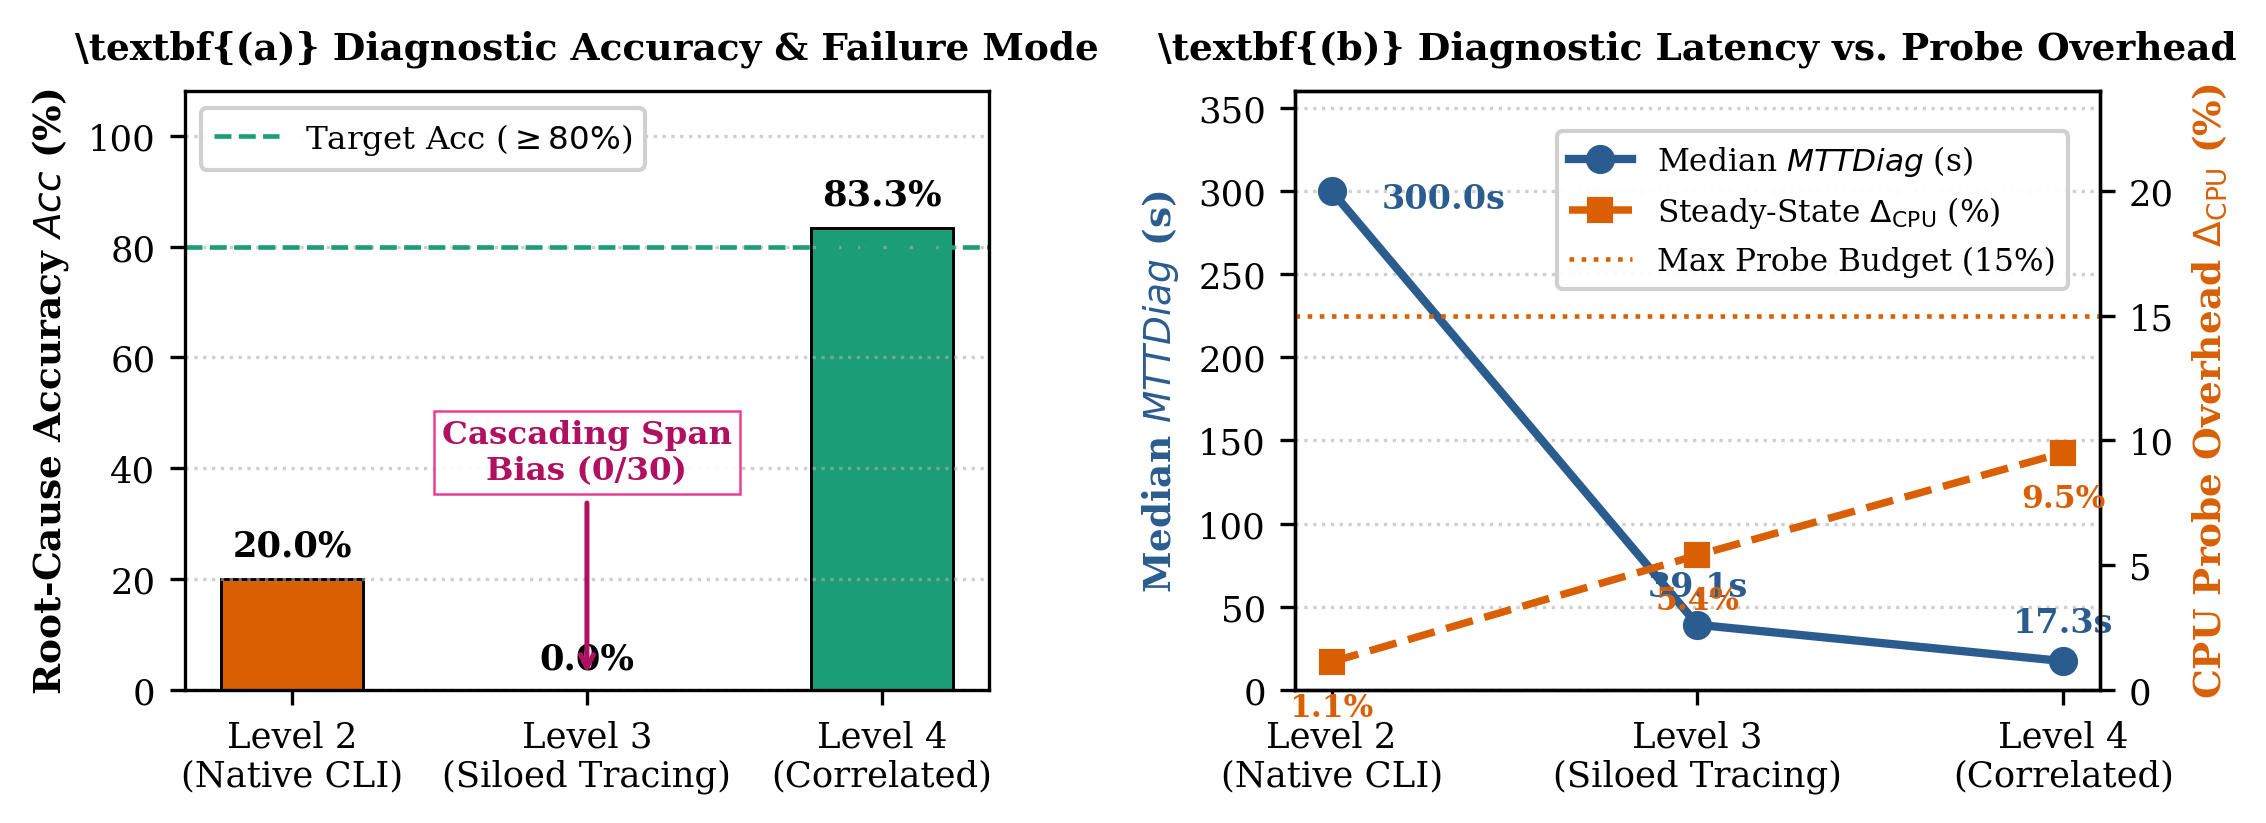
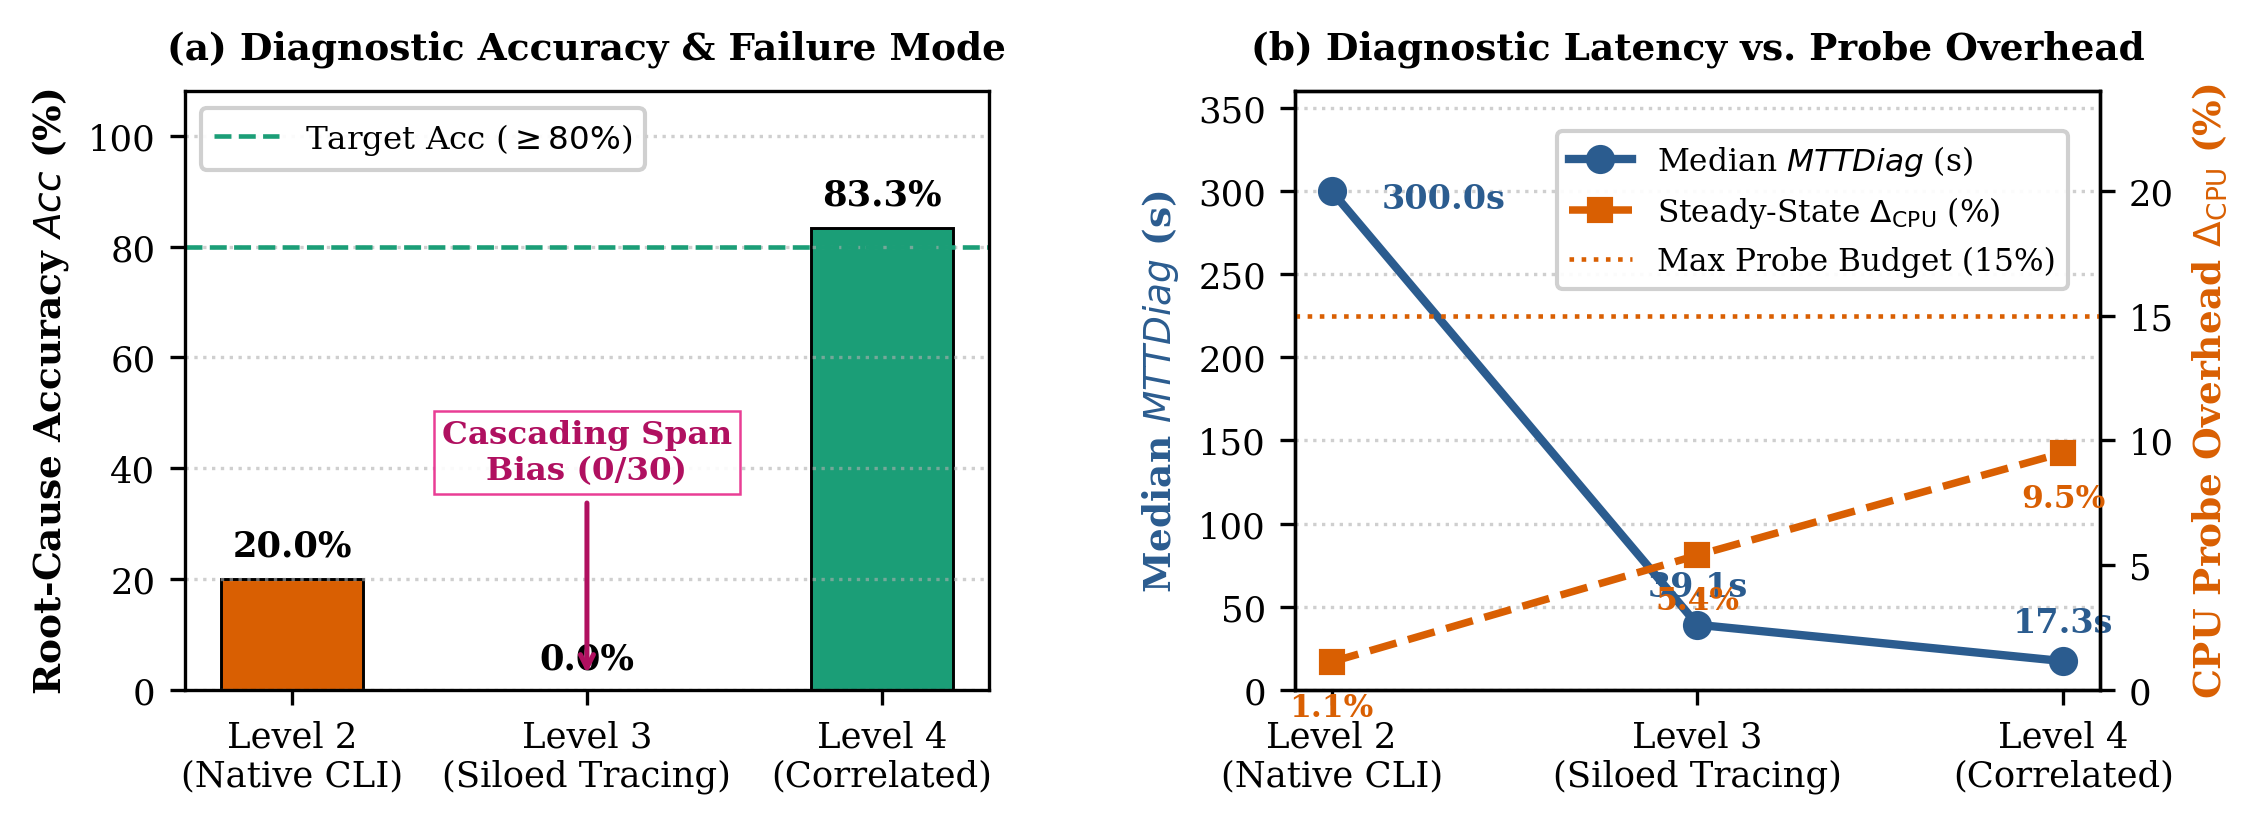
fix(figures): remove raw \textbf LaTeX command from Figure 3 subpanel titles

diff --git a/scripts/evaluate_cn_omm.py b/scripts/evaluate_cn_omm.py
@@ -280,7 +280,7 @@ def plot_omm_pareto_frontier():
     ax1.set_xticklabels(regimes)
     ax1.set_ylim(0, 108)
     ax1.grid(axis="y", linestyle=":", alpha=0.6)
-    ax1.set_title(r"\textbf{(a)} Diagnostic Accuracy & Failure Mode", fontsize=9, fontweight="bold", pad=8)
+    ax1.set_title("(a) Diagnostic Accuracy & Failure Mode", fontsize=9, fontweight="bold", pad=8)
 
     for bar, val in zip(bars1, acc_vals):
         y_pos = val + 3.0 if val > 0 else 2.5
@@ -329,7 +329,7 @@ def plot_omm_pareto_frontier():
     ax2.set_ylim(0, 360)
     ax2_twin.set_ylim(0, 24)
     ax2.grid(axis="y", linestyle=":", alpha=0.6)
-    ax2.set_title(r"\textbf{(b)} Diagnostic Latency vs. Probe Overhead", fontsize=9, fontweight="bold", pad=8)
+    ax2.set_title("(b) Diagnostic Latency vs. Probe Overhead", fontsize=9, fontweight="bold", pad=8)
 
     lines = line1 + line2 + [line3]
     labels = [l.get_label() for l in lines]
